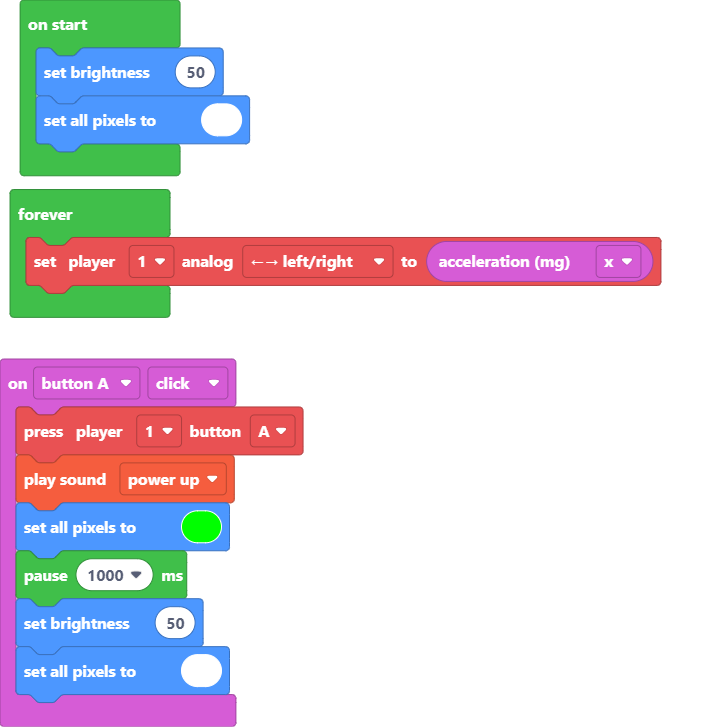
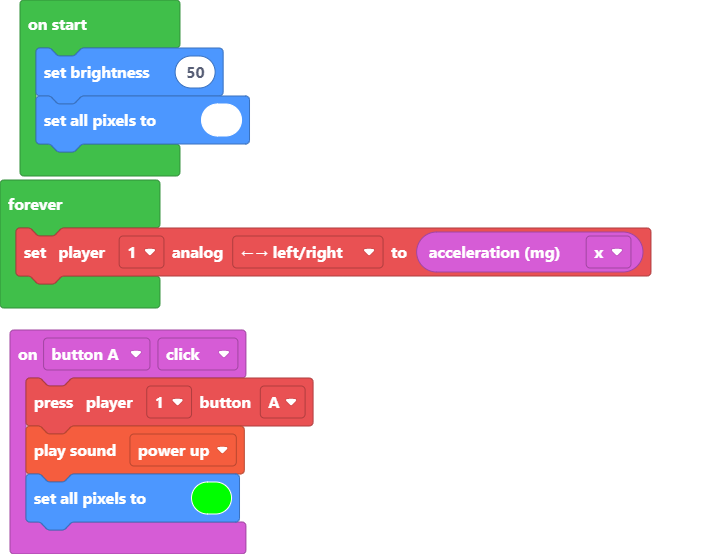
Update main.blocks, main.ts

diff --git a/main.ts b/main.ts
@@ -2,9 +2,6 @@ input.buttonA.onEvent(ButtonEvent.Click, function () {
     makerController.player1.press(ArcadeButton.A)
     music.powerUp.play()
     light.setAll(0x00ff00)
-    pause(1000)
-    light.setBrightness(50)
-    light.setAll(0xffffff)
 })
 light.setBrightness(50)
 light.setAll(0xffffff)
